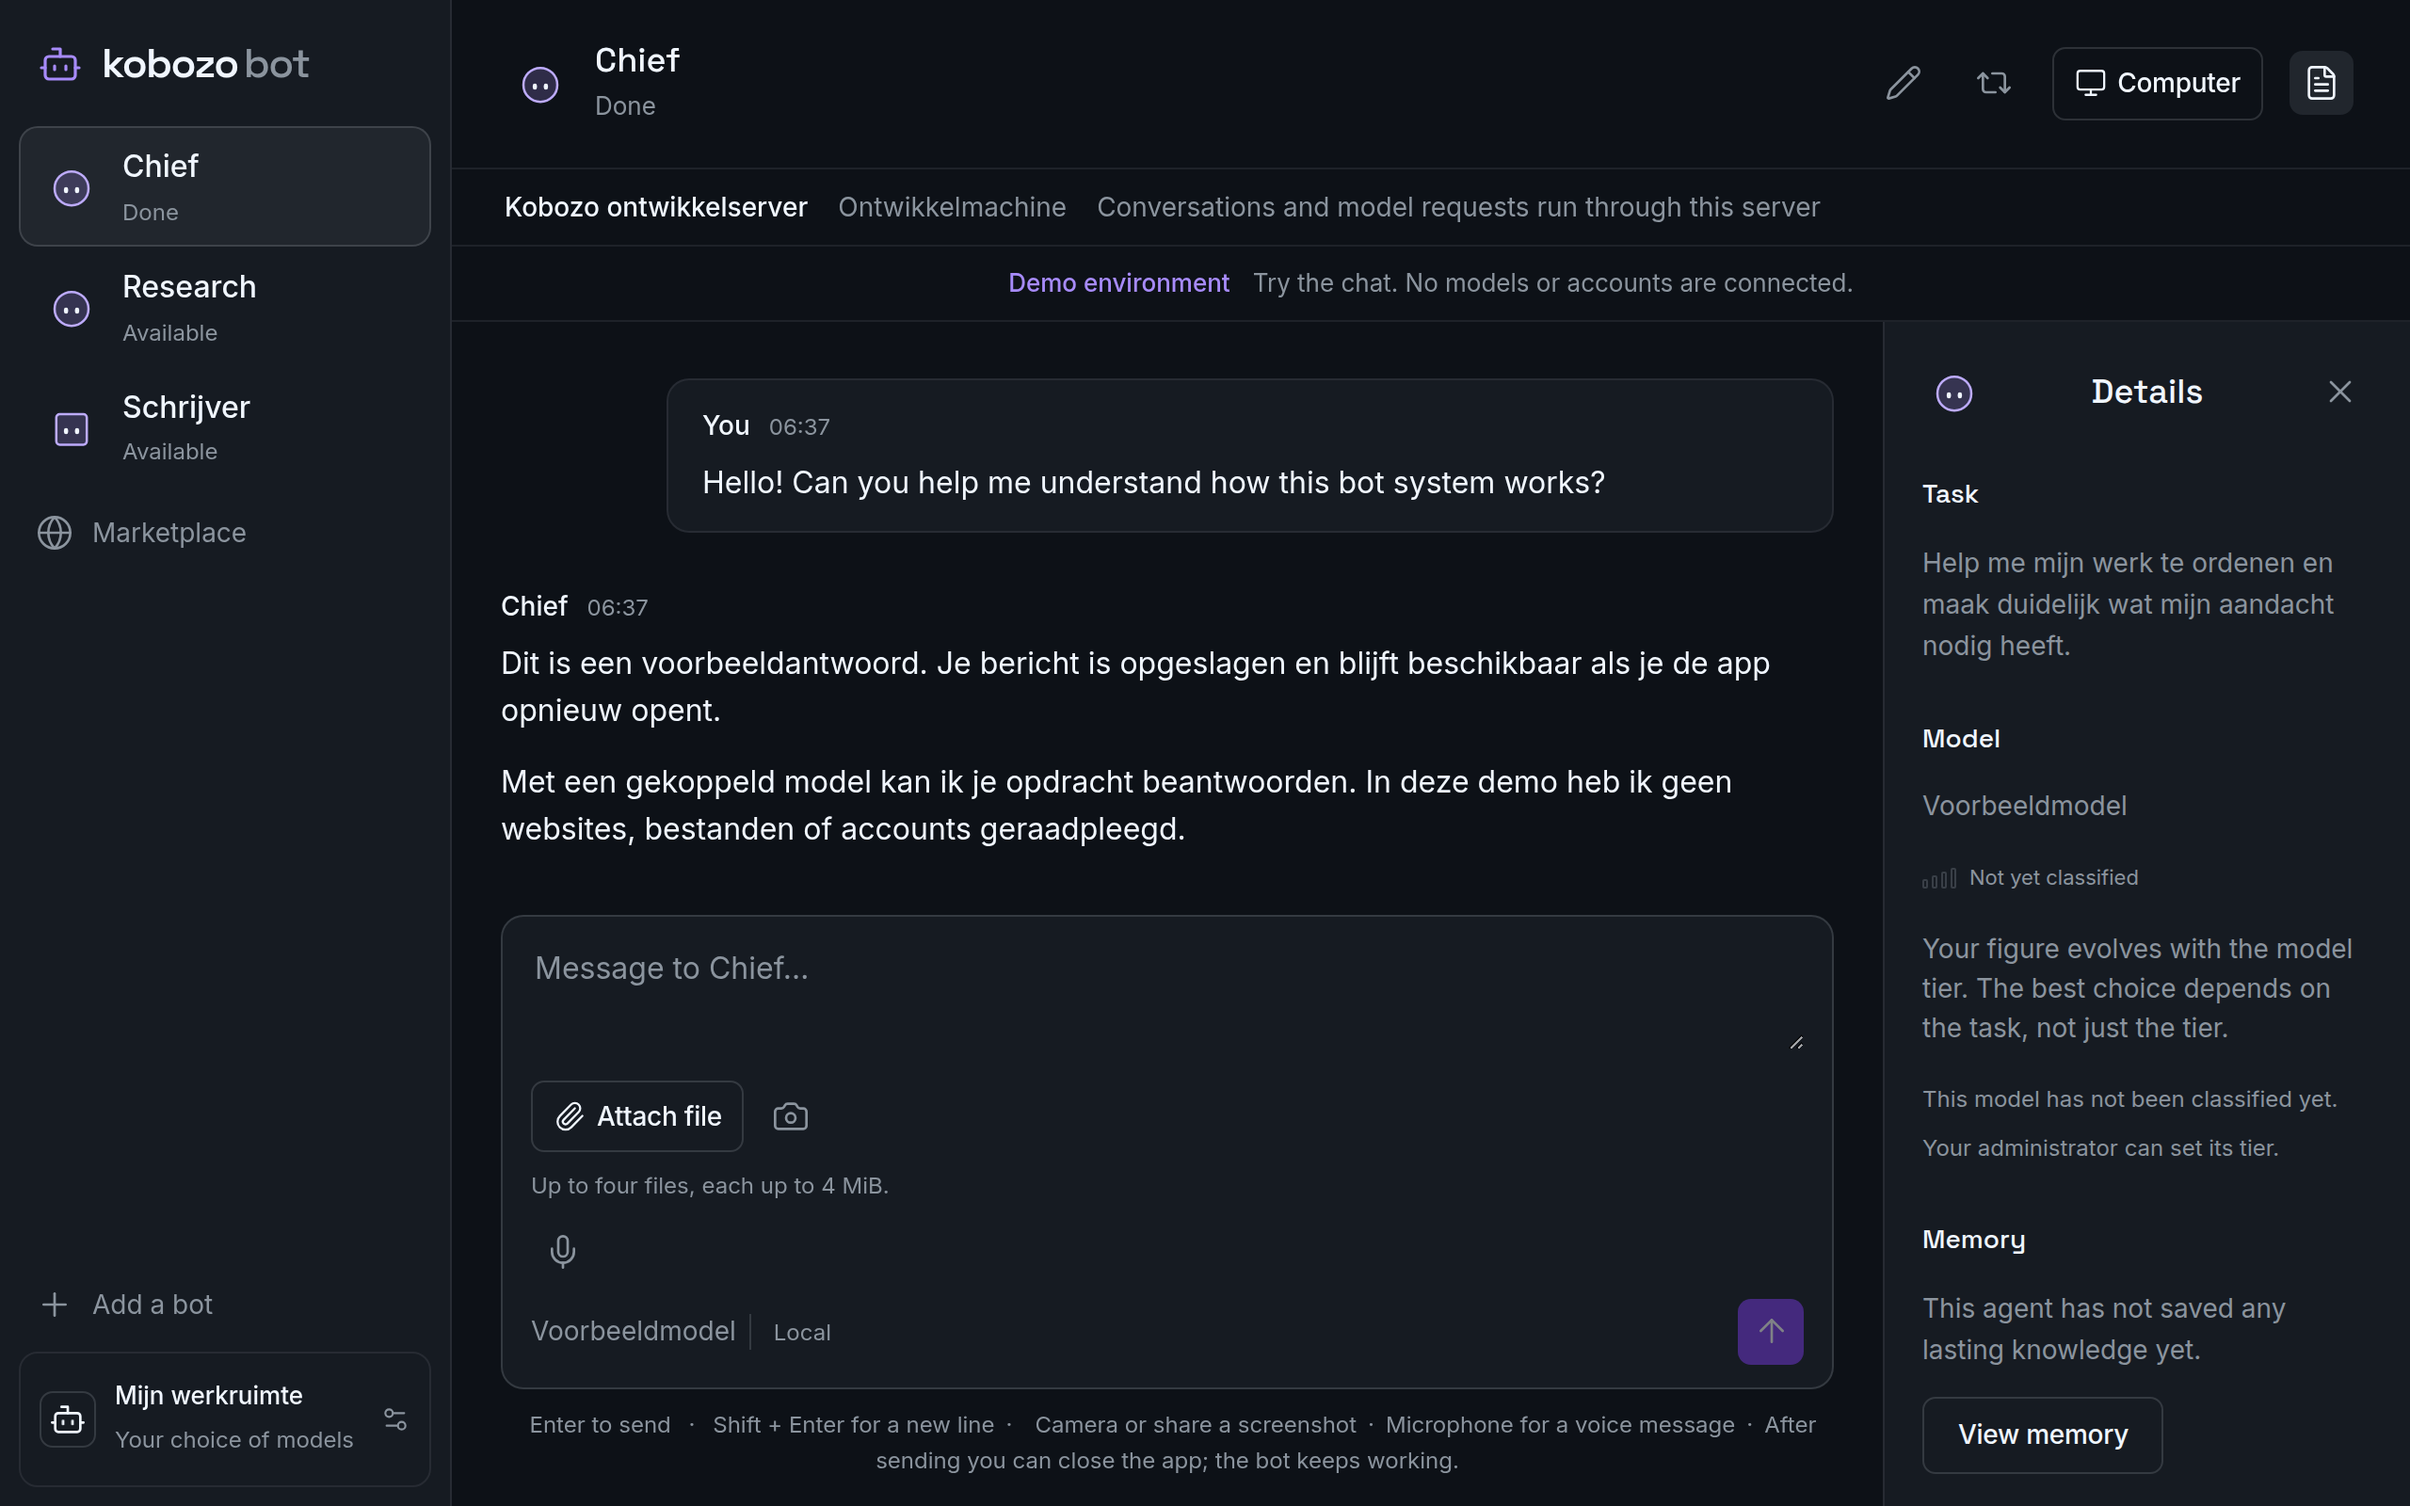
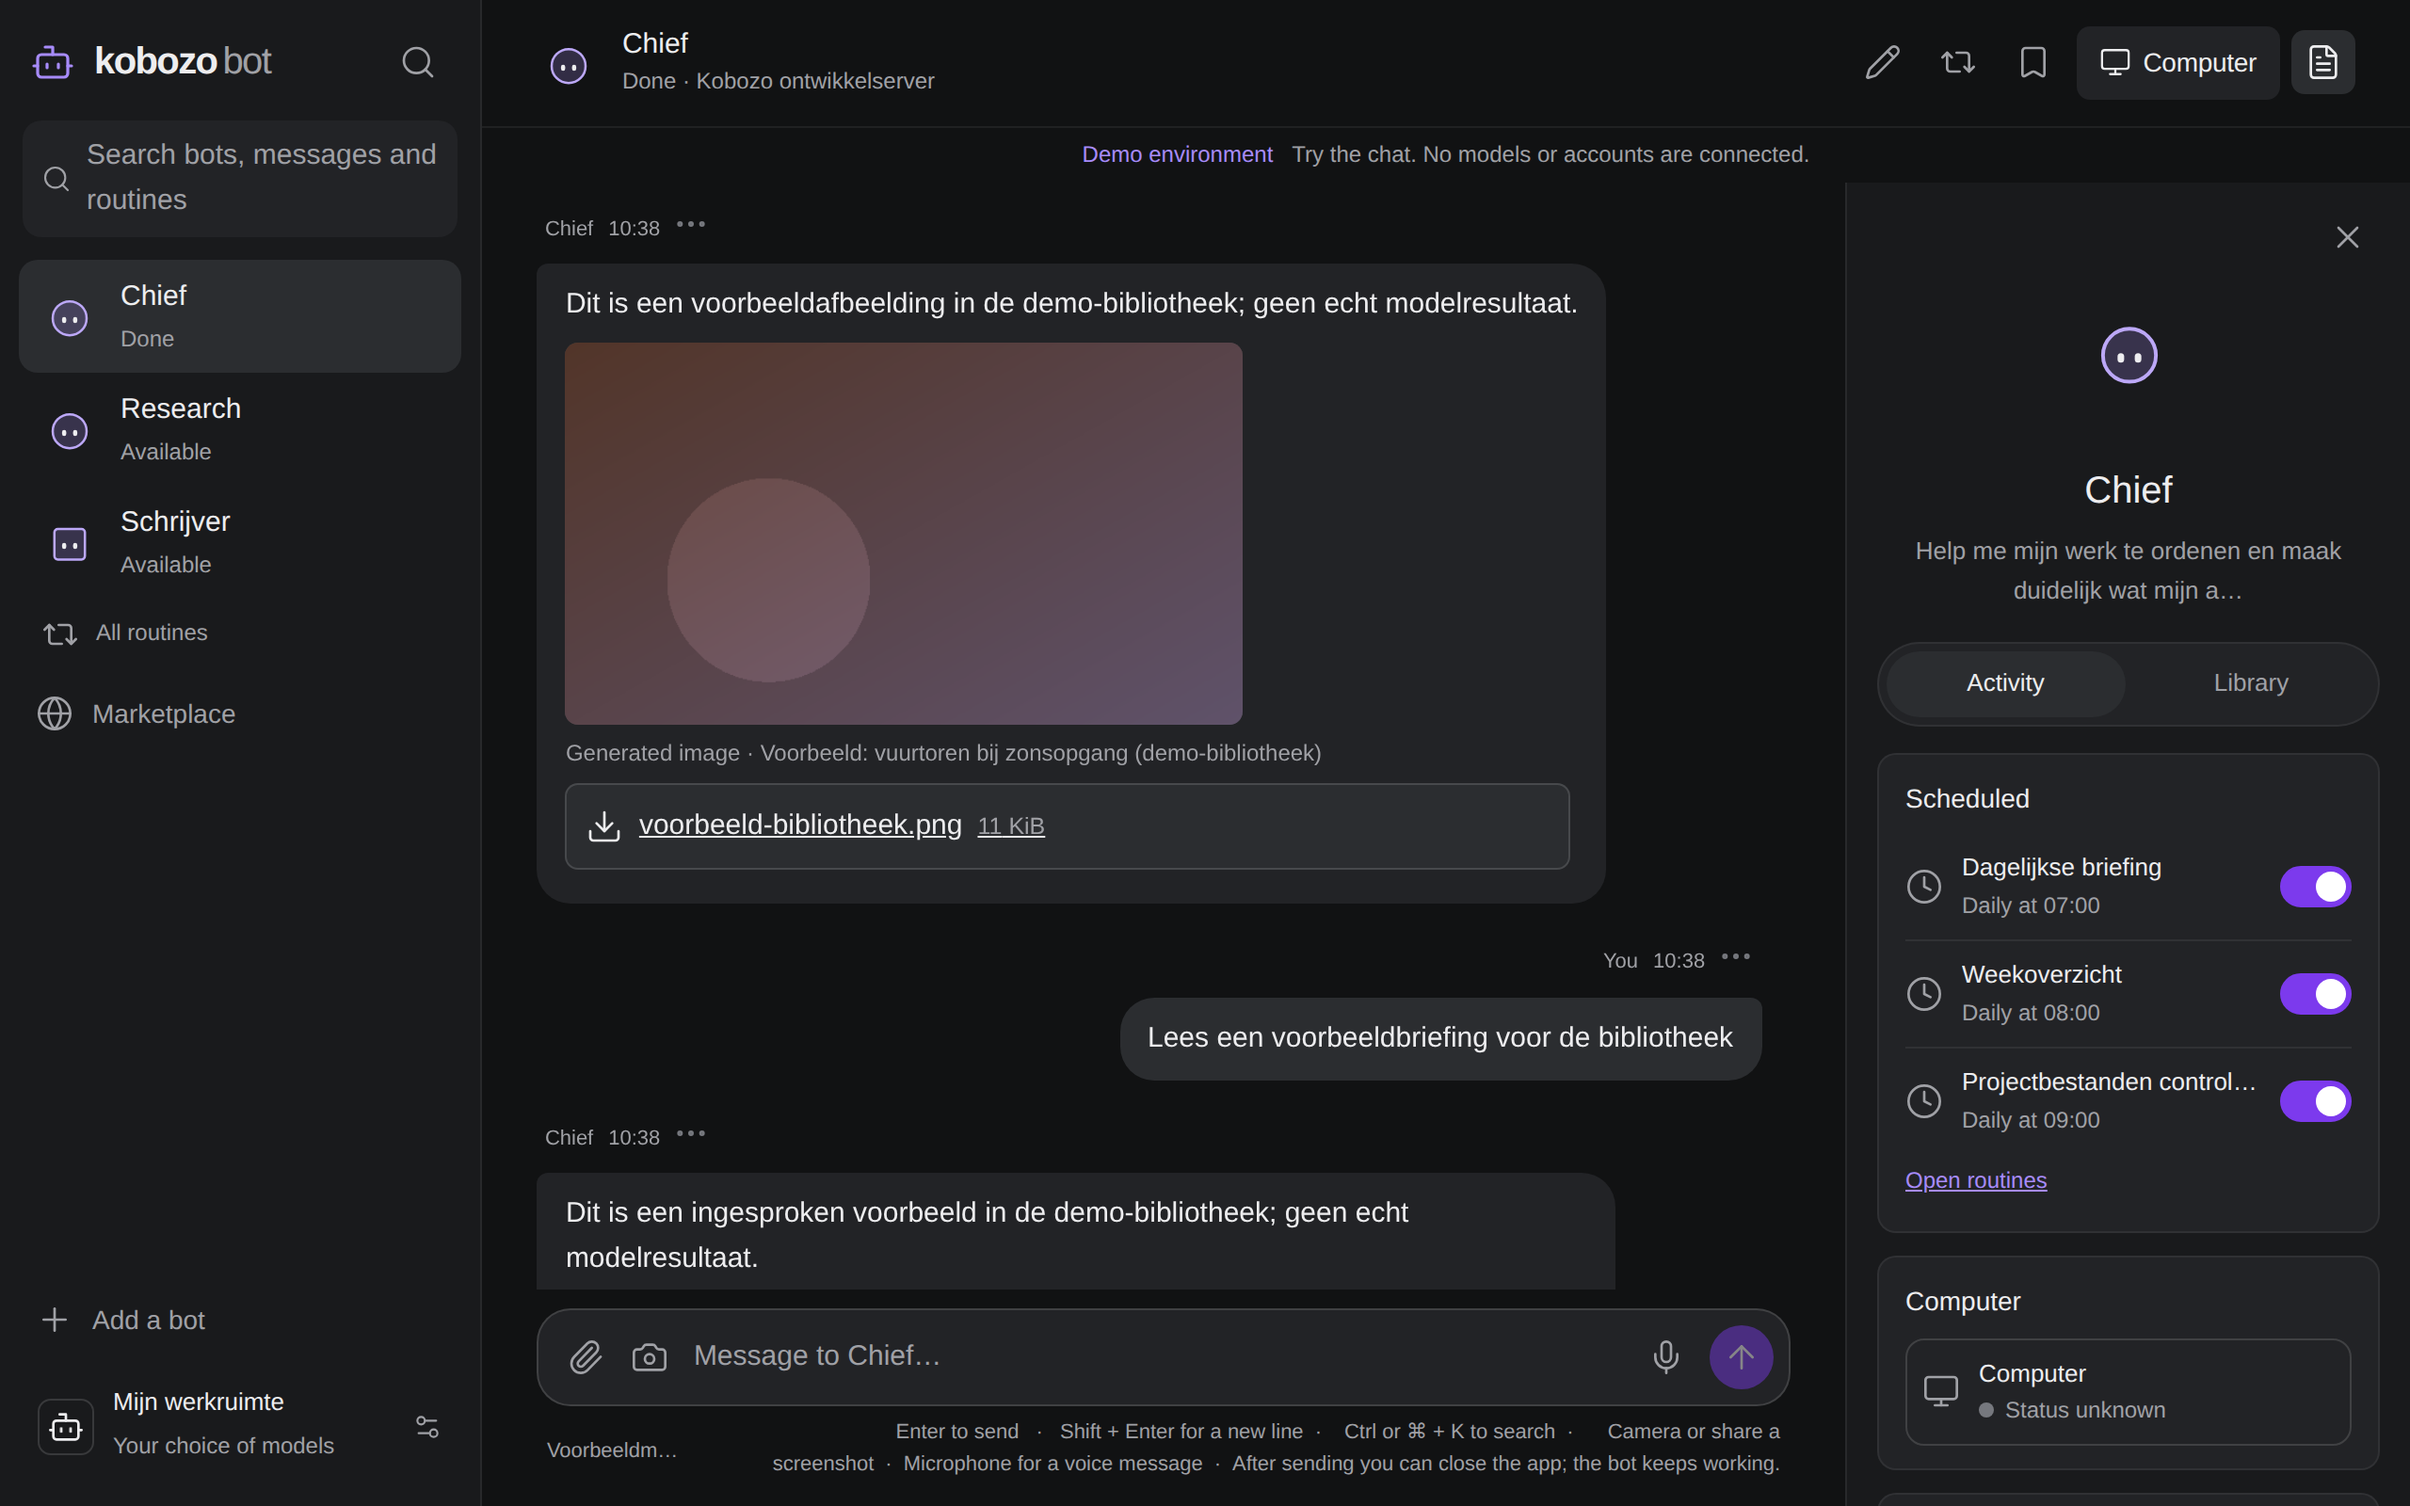
docs: publish how-to for 6361c1352e85abad9a0635cb7f5b32965c7e08c7

diff --git a/howto/mac-and-phone.md b/howto/mac-and-phone.md
@@ -43,3 +43,57 @@ kobozo-bot://connect?server=https%3A%2F%2Fyour-server
 ```
 
 That link carries only the origin, never a password or session.
+
+## Linux app (preview)
+
+The Linux app runs Kobozo Bot on your own computer. It carries its own copy of
+Node and the server, so there is nothing else to install, and it needs no
+Proxmox. It is for 64-bit Ubuntu or Debian (Intel or AMD).
+
+Install it from a release that includes the Linux app:
+
+```bash
+curl -fsSL https://github.com/kobozo/kobozo-bot-releases/releases/latest/download/install.sh -o install.sh
+bash install.sh --local
+```
+
+The installer downloads the app of that release, checks its SHA-256 against the
+value inside `install.sh`, and installs it with `apt` (it asks for your sudo
+password when you are not root). Then open **Kobozo Bot** from your
+applications menu, or run `kobozo-bot`. If a release has no Linux app, the
+installer says so and installs nothing. Not every release has one yet: a
+release has the Linux app only when its build succeeded.
+
+We have installed and run the app with this installer on a clean Ubuntu 26.04
+machine. The AppImage is not part of the release.
+
+![The Kobozo Bot window on Linux](images/local-app-window.png)
+
+*Lab capture on Ubuntu 26.04: the app opens straight into your workspace, with
+no sign-in.*
+
+- **No login by default.** The app starts a private server on `127.0.0.1`, so
+  only this computer can reach it, and signs you in by itself. There are no
+  organization settings: everything is yours, under **Personal**.
+- **One window.** Closing the window quits the app and stops the server. Start
+  it again and your bots and data are still there
+  (`~/.local/share/be.kobozo.bot`). A second start brings the first window to
+  the front.
+- **Optional password.** Open **My workspace → Password** and switch it on. You
+  choose an e-mail address and a password of at least 12 characters. From then
+  on the app shows a sign-in screen at start. Switching it off needs the current
+  password. Set a password on a computer that other people use.
+
+![Settings in the local app](images/local-settings.png)
+
+*Lab capture: no Organization switch, the Password page sits under Account.*
+
+![Password page, switched off](images/local-password-off.png)
+
+*The password is off: the app signs in by itself.*
+
+![Choosing a password](images/local-password-enable.png)
+
+![Sign-in screen after a password is set](images/local-login.png)
+
+![Switching the password off again](images/local-password-disable.png)

diff --git a/howto/first-team.md b/howto/first-team.md
@@ -142,13 +142,35 @@ stays.
 
 ## Details and memory
 
-Open the document icon in the header. **Details** shows the task, model,
-activity and recent work. **View memory** edits what the bot keeps across
-sessions.
+Open the document icon in the header. **Details** shows the bot's picture,
+name and a short role (the first sentence of its task), then two tabs.
+
+- **Activity** has a **Scheduled** card with this bot's routines (schedule in
+  plain words, an on/off switch, five shown and **Show more** for the rest, or
+  a button to open Routines when there are none), a **Computer** card that
+  shows whether the computer is not set up, not active or active and opens the
+  Computer window, an **About this bot** card (task, server, model, budget,
+  memory, recent tasks, **All activity**) and **Recent activity**.
+- **Library** shows the images and audio this bot made, with **Open library**
+  for the full list.
+
+**View memory** edits what the bot keeps across sessions. If a card cannot
+load, it says so in one sentence and the rest of the panel keeps working.
 
 ![Details panel beside chat](images/details-panel.png)
 
-*Demo capture: Details for Chief, with task, model and empty memory.*
+*Demo capture: Details for Chief on desktop, Activity tab with three example
+routines. The demo has no project computer, so the Computer card shows
+"Status unknown"; on a real install it shows the actual state.*
+
+![Details Library tab beside chat](images/details-library.png)
+
+*Demo capture: the Library tab with the labeled example audio and image.*
+
+![Details panel on a phone](images/details-panel-mobile.png)
+
+*Demo capture: on a phone, Details fills the screen; Back to bots keeps your
+draft.*
 
 Bots can stay hidden from the main list and still work. Open **Hidden bots** to
 chat with them. Asking a colleague sends a bounded task; it is not a shared

diff --git a/howto/my-workspace.md b/howto/my-workspace.md
@@ -20,6 +20,11 @@ organization pages are not shown. **Organization settings** opens the system
 browser at `/settings/organization` on your server, without a session token,
 so you sign in on the web.
 
+On a single-computer install (the Linux app) there is no organization level and no
+switch: everything is personal, and pages that only exist for an organization
+(users, backups, sign-in providers, updates) are not shown. See
+[Mac and phone](mac-and-phone.md).
+
 The left menu scrolls when the list is longer than the window. **Sign out**
 stays at the bottom of that column. On a narrow screen the sidebar becomes a
 section menu in the same order, and forms stack so fields stay full width.

diff --git a/howto/media.md b/howto/media.md
@@ -42,7 +42,7 @@ alternative. It does not open a website or use another tool to work around it.
 
 ## Library
 
-Open **My workspace → Library** (or **Details → Open library** on a bot). You see
+Open **My workspace → Library** (or the **Library** tab in **Details** on a bot, then **Open library**). You see
 every image and spoken audio file your bots generated, newest first, across all
 tasks. Filter by bot or kind, or search by title or description. Open the chat
 that produced an item, or download the file. A generated image appears here as

diff --git a/README.md b/README.md
@@ -51,6 +51,6 @@ This how-to describes released, tested behavior only. Limits and unfinished work
 are stated explicitly. Internal lab runbooks and architecture notes are not part
 of this public guide.
 
-How-to revision: cf97c99eab1d515ddb5dfa5cd0d19d56eb44eefc
+How-to revision: 6361c1352e85abad9a0635cb7f5b32965c7e08c7
 
 For hosting, support and contact requests, visit [kobozo.io](https://kobozo.io/contact/).
